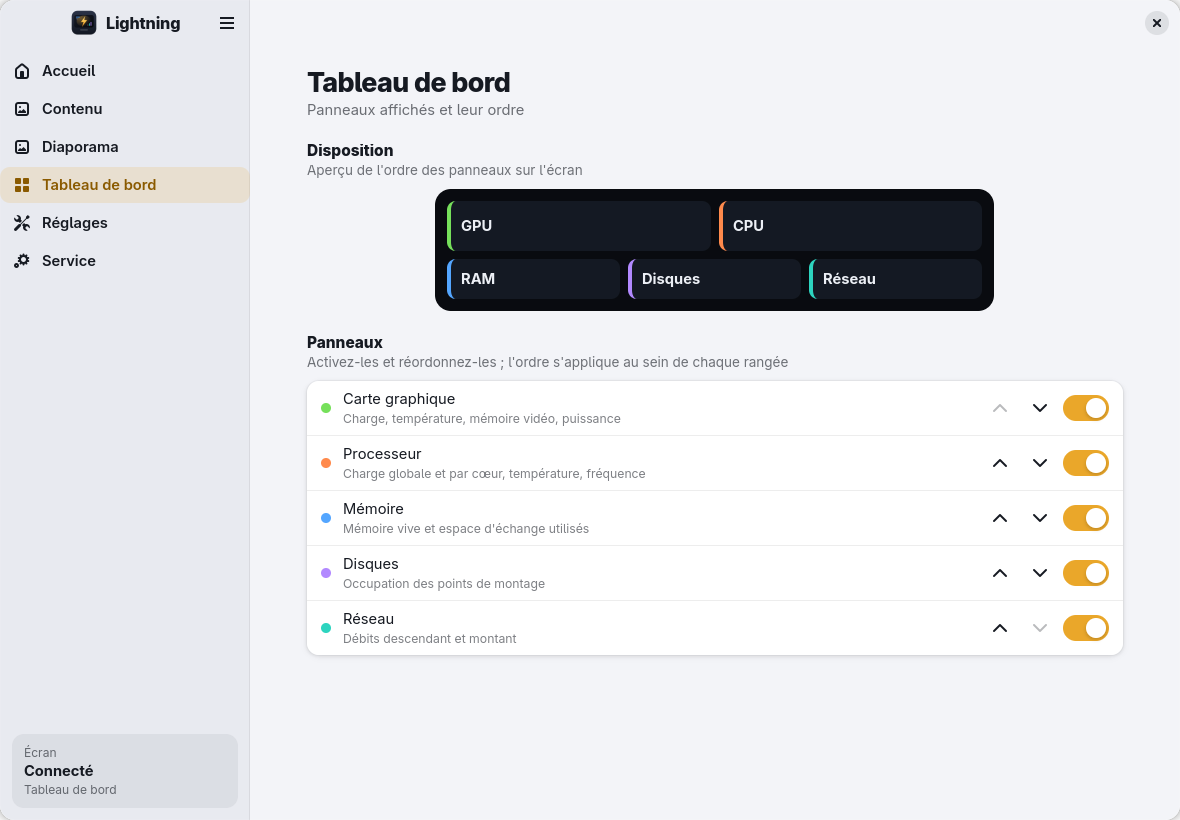
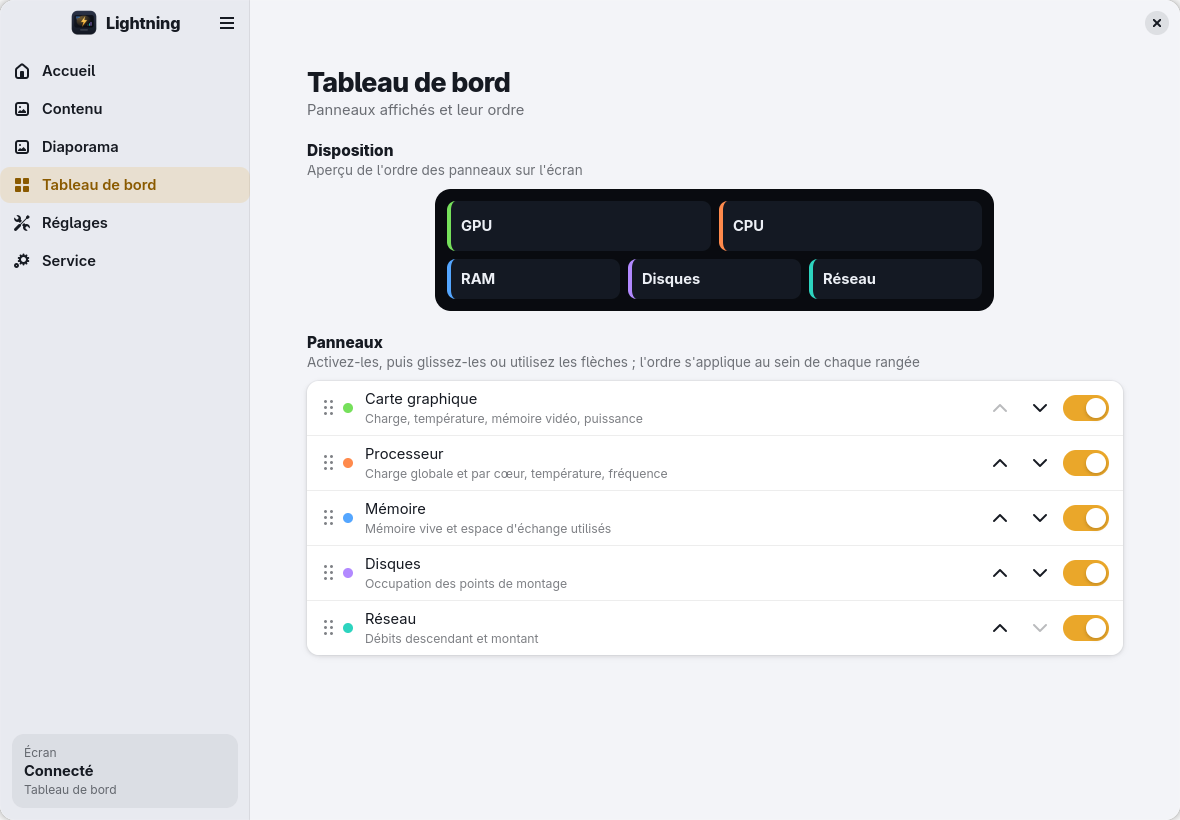
Tableau de bord : glisser-déposer pour l'ordre des panneaux
Les lignes des panneaux activés portent une poignée et se réordonnent
par glisser-déposer (GtkDragSource / GtkDropTarget). Les boutons
monter/descendre restent pour le clavier. Logique d'ordre (dropped)
testée, captures de la page Tableau de bord régénérées.

diff --git a/crates/lightning-gtk/src/bind.rs b/crates/lightning-gtk/src/bind.rs
@@ -1096,6 +1096,23 @@ pub fn moved(enabled: &[String], name: &str, delta: i32) -> Vec<String> {
     list
 }
 
+/// Liste après glisser-déposer : `name` prend la place de `target`.
+///
+/// En descendant, le panneau se place après la cible ; en montant, avant.
+/// Sans effet si l'un des deux n'est pas activé.
+pub fn dropped(enabled: &[String], name: &str, target: &str) -> Vec<String> {
+    let mut list = enabled.to_vec();
+    let (Some(from), Some(to)) = (
+        list.iter().position(|w| w == name),
+        list.iter().position(|w| w == target),
+    ) else {
+        return list;
+    };
+    let item = list.remove(from);
+    list.insert(to, item);
+    list
+}
+
 /// Liste après activation ou désactivation d'un panneau.
 pub fn toggled(enabled: &[String], name: &str, on: bool) -> Vec<String> {
     let mut list: Vec<String> = enabled.iter().filter(|w| *w != name).cloned().collect();
@@ -1155,7 +1172,7 @@ fn apply_panels(ui: &Rc<Ui>, remote: &Remote, widgets: &[String]) {
         ui.schematic.append(&empty);
     }
 
-    // Lignes : pastille de couleur, monter, descendre, interrupteur.
+    // Lignes : poignée, pastille de couleur, monter, descendre, interrupteur.
     ui.panel_list.remove_all();
     let rows = panel_rows(widgets);
     let enabled_count = rows.iter().filter(|(_, on)| *on).count();
@@ -1173,6 +1190,17 @@ fn apply_panels(ui: &Rc<Ui>, remote: &Remote, widgets: &[String]) {
         dot.add_css_class(&format!("dot-{name}"));
         dot.set_valign(gtk::Align::Center);
         row.add_prefix(&dot);
+        // Poignée à gauche : les panneaux activés se réordonnent par glisser-déposer.
+        // Invisible sur les autres lignes, pour garder les titres alignés.
+        let handle = gtk::Image::from_icon_name("list-drag-handle-symbolic");
+        handle.add_css_class("drag-handle");
+        if *on {
+            handle.set_tooltip_text(Some("Glisser pour réordonner"));
+            attach_drag(ui, remote, &row, name);
+        } else {
+            handle.set_opacity(0.0);
+        }
+        row.add_prefix(&handle);
         for (icon, delta, tip, sensitive) in [
             ("go-up-symbolic", -1, "Monter", *on && index > 0),
             (
@@ -1217,6 +1245,48 @@ fn apply_panels(ui: &Rc<Ui>, remote: &Remote, widgets: &[String]) {
     }
     *ui.shown_panels.borrow_mut() = Some(widgets.to_vec());
     ui.updating.set(was);
+}
+
+/// Glisser-déposer d'une ligne de panneau activé sur une autre.
+fn attach_drag(ui: &Rc<Ui>, remote: &Remote, row: &adw::ActionRow, name: &'static str) {
+    let source = gtk::DragSource::new();
+    source.set_actions(gdk::DragAction::MOVE);
+    source.set_content(Some(&gdk::ContentProvider::for_value(&name.to_value())));
+    source.connect_drag_begin(|source, _| {
+        // Aperçu : la ligne elle-même, saisie là où le pointeur l'a prise.
+        let Some(row) = source.widget() else { return };
+        let paintable = gtk::WidgetPaintable::new(Some(&row));
+        let (x, y) = source
+            .current_event()
+            .and_then(|event| event.position())
+            .unwrap_or((0.0, 0.0));
+        source.set_icon(Some(&paintable), x as i32, y as i32);
+        row.add_css_class("dragged");
+    });
+    source.connect_drag_end(|source, _, _| {
+        if let Some(row) = source.widget() {
+            row.remove_css_class("dragged");
+        }
+    });
+    row.add_controller(source);
+
+    let target = gtk::DropTarget::new(glib::Type::STRING, gdk::DragAction::MOVE);
+    let (ui, remote) = (ui.clone(), remote.clone());
+    target.connect_drop(move |_, value, _, _| {
+        let Ok(dragged) = value.get::<String>() else {
+            return false;
+        };
+        let current = ui.state.borrow().widgets.clone();
+        let list = dropped(&current, &dragged, name);
+        if list == current {
+            return false;
+        }
+        // Les lignes sont reconstruites : pas pendant le traitement du dépôt.
+        let (ui, remote) = (ui.clone(), remote.clone());
+        glib::idle_add_local_once(move || send_widgets(&ui, &remote, list));
+        true
+    });
+    row.add_controller(target);
 }
 
 /// État du service : page Service et écran « hors service ».
@@ -1360,6 +1430,29 @@ mod tests {
         assert_eq!(moved(&enabled, "cpu", -1), enabled, "déjà en tête");
         assert_eq!(moved(&enabled, "gpu", 1), enabled, "déjà en queue");
         assert_eq!(moved(&enabled, "memory", 1), enabled, "panneau désactivé");
+
+        assert_eq!(
+            dropped(&enabled, "cpu", "gpu"),
+            list(&["network", "gpu", "cpu"]),
+            "vers le bas : après la cible"
+        );
+        assert_eq!(
+            dropped(&enabled, "gpu", "cpu"),
+            list(&["gpu", "cpu", "network"]),
+            "vers le haut : avant la cible"
+        );
+        assert_eq!(
+            dropped(&enabled, "network", "gpu"),
+            list(&["cpu", "gpu", "network"])
+        );
+        assert_eq!(dropped(&enabled, "cpu", "cpu"), enabled, "sur elle-même");
+        assert_eq!(dropped(&enabled, "memory", "cpu"), enabled, "désactivé");
+        assert_eq!(
+            dropped(&enabled, "cpu", "disks"),
+            enabled,
+            "cible désactivée"
+        );
+        assert_eq!(dropped(&enabled, "inconnu", "cpu"), enabled, "nom inconnu");
 
         assert_eq!(
             toggled(&enabled, "memory", true),

diff --git a/crates/lightning-gtk/src/ui.rs b/crates/lightning-gtk/src/ui.rs
@@ -907,7 +907,9 @@ pub fn build(app: &adw::Application) -> Rc<Ui> {
             schematic_clamp.upcast_ref(),
             section(
                 "Panneaux",
-                Some("Activez-les et réordonnez-les ; l'ordre s'applique au sein de chaque rangée"),
+                Some(
+                    "Activez-les, puis glissez-les ou utilisez les flèches ; l'ordre s'applique au sein de chaque rangée",
+                ),
             )
             .upcast_ref(),
             panel_list.upcast_ref(),

diff --git a/crates/lightning-gtk/src/style.rs b/crates/lightning-gtk/src/style.rs
@@ -189,6 +189,9 @@ pub const COMMON_CSS: &str = r#"
 .schematic .tile.tile-memory { border-left-color: #54a6ff; }
 .schematic .tile.tile-disks { border-left-color: #b289ff; }
 .schematic .tile.tile-network { border-left-color: #2dd4bf; }
+.drag-handle { opacity: 0.55; }
+row:drop(active) { box-shadow: inset 0 0 0 2px @accent_color; }
+row.dragged { opacity: 0.4; }
 .panel-dot { min-width: 10px; min-height: 10px; border-radius: 10px; }
 .dot-gpu { background: #76e05b; }
 .dot-cpu { background: #ff8a4c; }

diff --git a/README.md b/README.md
@@ -64,7 +64,7 @@ au matériel : elle pilote le démon par D-Bus et le service par l'API D-Bus de 
 | Accueil | grand aperçu en direct de l'écran, pastilles d'état (liaison, contenu, cadence, temps de rendu, luminosité), cartes de contenu, luminosité |
 | Contenu | cartes illustrées (tableau de bord, image, vidéo, diaporama, couleur, animation d'origine) et options du contenu choisi |
 | Diaporama | tuiles des dossiers avec couverture et nombre de photos, import Google Photos, réglages de lecture |
-| Tableau de bord | panneaux affichés, ordre (boutons monter/descendre) et schéma de la disposition |
+| Tableau de bord | panneaux affichés, ordre (glisser-déposer ou boutons monter/descendre) et schéma de la disposition |
 | Réglages | luminosité, orientation, cadence, comportement à l'arrêt, aperçu HTTP |
 | Service | état, marche/arrêt, redémarrage, lancement à l'ouverture de session |
 
